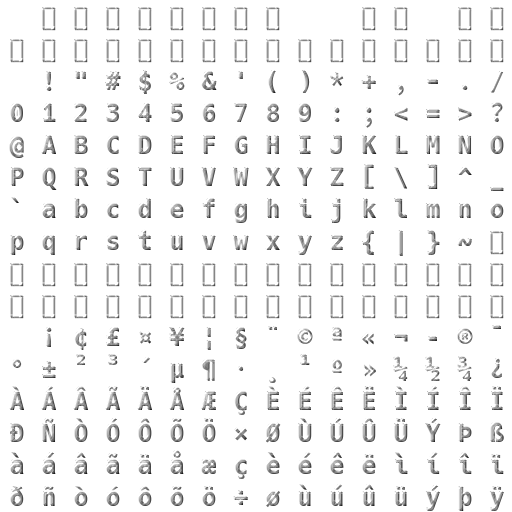
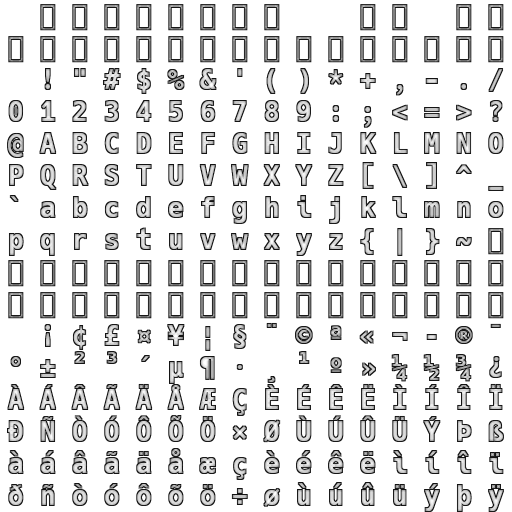
Finished Koreans. Less Stressful for the eyes. Better selection.

Changed region(s): [[0.0, 0.0, 1.0, 1.0]]

diff --git a/src/rs/alexanderstojanovich/fo2ie/main/ModuleRenderer.java b/src/rs/alexanderstojanovich/fo2ie/main/ModuleRenderer.java
@@ -90,11 +90,15 @@ public abstract class ModuleRenderer implements GLEventListener, MouseListener, 
     protected GLComponent selected;
     protected GLComponent outline;
 
+    protected Text textHint;
+
     protected boolean dragging = false;
 //    protected Vector4f savedColor = new Vector4f();
-    private Vector2f scrnMouseCoords;
+    private Vector2f scrnMouseCoords = new Vector2f();
 
     private int selectedIndex = -1;
+
+    private boolean hasFocus = false;
 
     /**
      * State of the machine
@@ -181,6 +185,8 @@ public abstract class ModuleRenderer implements GLEventListener, MouseListener, 
             setPerspective();
         }
 
+        textHint = new Text(null, fntTexture, "", GLColor.awtColorToVec4(config.getHintCol()), null);
+
         this.animator.start();
         state = State.INIT;
     }
@@ -231,11 +237,16 @@ public abstract class ModuleRenderer implements GLEventListener, MouseListener, 
                 if (selected != null) {
                     selected.render(gl20, projMat4, cntSProgram);
                 }
+                if (!textHint.isBuffered()) {
+                    textHint.buffer(gl20);
+                }
+                textHint.render(gl20, projMat4, fntSProgram);
                 break;
             case BUILD:
                 // suspend the loop until all components are built
                 animator.pause();
                 buildComponents(gl20);
+                textHint.unbuffer();
                 state = State.SUSPEND;
                 break;
             case SCREENSHOT:
@@ -358,13 +369,13 @@ public abstract class ModuleRenderer implements GLEventListener, MouseListener, 
         deselect();
 
         for (GLComponent glc : module.components) {
-            if (glc.isEnabled() && glc.getPixelArea().containsPoint(scrnMouseCoords)) {
+            if (glc.isEnabled() && glc.getPixelArea().containsPoint(scrnMouseCoords) && glc.getFeatureKey().getStringValue().equals(textHint.getContent())) {
                 selected = glc;
                 selected.setOutlineColor(GLColor.awtColorToVec4(config.getSelectCol()));
                 break;
             }
         }
-
+        textHint.setEnabled(false);
         afterSelection();
     }
 
@@ -504,6 +515,18 @@ public abstract class ModuleRenderer implements GLEventListener, MouseListener, 
         moveSelected(x, y - amount);
     }
 
+    private void showHintText() {
+        if (hasFocus && selected == null) {
+            for (GLComponent glc : module.components) {
+                if (glc.isEnabled() && glc.getPixelArea().containsPoint(scrnMouseCoords)) {
+                    textHint.setPos(scrnMouseCoords);
+                    textHint.setContent(glc.getFeatureKey().getStringValue());
+                }
+            }
+            textHint.setEnabled(true);
+        }
+    }
+
     //--------------------------------------------------------------------------
     @Override
     public void mouseClicked(MouseEvent e) {
@@ -544,12 +567,15 @@ public abstract class ModuleRenderer implements GLEventListener, MouseListener, 
 
     @Override
     public void mouseEntered(MouseEvent e) {
-        // ..IGNORE
+        hasFocus = true;
     }
 
     @Override
     public void mouseExited(MouseEvent e) {
-        //deselect();
+        hasFocus = false;
+        if (textHint != null) {
+            textHint.setEnabled(false);
+        }
     }
 
     @Override
@@ -565,6 +591,9 @@ public abstract class ModuleRenderer implements GLEventListener, MouseListener, 
 
     @Override
     public void mouseMoved(MouseEvent e) {
+        if (e.getX() != scrnMouseCoords.x && e.getY() != scrnMouseCoords.y && textHint != null) {
+            textHint.setEnabled(false);
+        }
         scrnMouseCoords = new Vector2f(e.getX(), e.getY());
     }
 
@@ -575,11 +604,16 @@ public abstract class ModuleRenderer implements GLEventListener, MouseListener, 
         }
 
         if (ke.isControlDown() && ke.getKeyCode() == KeyEvent.VK_D) {
+            textHint.setEnabled(false);
             deselect();
         }
 
         if (ke.isControlDown() && ke.getKeyCode() == KeyEvent.VK_A) {
             select();
+        }
+
+        if (ke.isControlDown() && ke.getKeyCode() != KeyEvent.VK_A && ke.getKeyCode() != KeyEvent.VK_D) {
+            showHintText();
         }
 
         if (ke.getKeyCode() == KeyEvent.VK_OPEN_BRACKET) {

diff --git a/src/rs/alexanderstojanovich/fo2ie/main/GUI.java b/src/rs/alexanderstojanovich/fo2ie/main/GUI.java
@@ -435,7 +435,7 @@ public class GUI extends javax.swing.JFrame {
         fileChooserIniSave.setDialogType(javax.swing.JFileChooser.SAVE_DIALOG);
 
         setDefaultCloseOperation(javax.swing.WindowConstants.EXIT_ON_CLOSE);
-        setTitle("FOnline2 S3 Interface Editor - JAPANESE");
+        setTitle("FOnline2 S3 Interface Editor - KOREANS");
         setMinimumSize(new java.awt.Dimension(800, 600));
         setPreferredSize(new java.awt.Dimension(800, 600));
         setSize(new java.awt.Dimension(800, 600));
@@ -626,6 +626,7 @@ public class GUI extends javax.swing.JFrame {
 
             }
         ));
+        tblFeats.setCellSelectionEnabled(true);
         tblFeats.setRowHeight(24);
         sbFeatures.setViewportView(tblFeats);
 
@@ -641,6 +642,7 @@ public class GUI extends javax.swing.JFrame {
 
             }
         ));
+        tblComps.setCellSelectionEnabled(true);
         tblComps.setRowHeight(24);
         sbComps.setViewportView(tblComps);
 
@@ -864,9 +866,15 @@ public class GUI extends javax.swing.JFrame {
         URL icon_url = getClass().getResource(RESOURCES_DIR + LICENSE_LOGO_FILE_NAME);
         if (icon_url != null) {
             StringBuilder sb = new StringBuilder();
-            sb.append("VERSION v1.2 - JAPANESE (PUBLIC BUILD reviewed on 2022-01-22 at 08:00).\n");
+            sb.append("VERSION v1.3 - KOREANS (PUBLIC BUILD reviewed on 2022-07-01 at 11:00).\n");
             sb.append("This software is free software, \n");
             sb.append("licensed under GNU General Public License (GPL).\n");
+            sb.append("\n");
+            sb.append("Changelog since v1.3 KOREANS:\n");
+            sb.append("\t- Fixed Missing components of Main Pics for PriceSetup and GroundPickup.\n");
+            sb.append("\t- Showing hint text when mouse cursor is hovered over and CTRL is pressed\n");
+            sb.append("\t- Reworked shader for component selection to be less stressful for the eyes. \n");
+            sb.append("\t- Reworked question mark with changing locations (whenn pic is missing) to be less stressful for the eyes. \n");
             sb.append("\n");
             sb.append("Changelog since v1.2 JAPANESE:\n");
             sb.append("\t- Feature \"eye\" button - to hide/reveal components. [VVish] \n");
@@ -1428,11 +1436,13 @@ public class GUI extends javax.swing.JFrame {
 
     private void cmbBoxSectionActionPerformed(java.awt.event.ActionEvent evt) {//GEN-FIRST:event_cmbBoxSectionActionPerformed
         // TODO add your handling code here:
-        mdlRenderer.deselect();
-        mdlRenderer.module.components.clear();
-        initFeaturePreview();
-        initComponentsPreview();
-        workOnBuildComponents();
+        if (intrface.getSectionName() != cmbBoxSection.getSelectedItem()) {
+            mdlRenderer.deselect();
+            mdlRenderer.module.components.clear();
+            initFeaturePreview();
+            initComponentsPreview();
+            workOnBuildComponents();
+        }
     }//GEN-LAST:event_cmbBoxSectionActionPerformed
 
     private void cmbBoxResolutionActionPerformed(java.awt.event.ActionEvent evt) {//GEN-FIRST:event_cmbBoxResolutionActionPerformed

diff --git a/src/rs/alexanderstojanovich/fo2ie/intrface/Configuration.java b/src/rs/alexanderstojanovich/fo2ie/intrface/Configuration.java
@@ -40,8 +40,9 @@ public class Configuration {
     private File outDir = new File(OUTPUT_DIR_PATH);
     private Color txtCol = Color.GREEN;
     private Color txtOverlayCol = new Color(128, 128, 128, 128); // gray half translucent
-    private Color selectCol = new Color(0, 0, 255, 128); // half blue translucent
+    private Color selectCol = new Color(0, 255, 255, 128); // half blue translucent
     private Color qmarkCol = Color.MAGENTA;
+    private Color hintCol = Color.ORANGE;
     private int textureSize = 1024;
 
     private boolean keepAspectRatio = false;
@@ -114,6 +115,9 @@ public class Configuration {
                             case "SelectedColor":
                                 selectCol = readRGBA(words[1]);
                                 break;
+                            case "HintColor":
+                                hintCol = readRGBA(words[1]);
+                                break;
                             case "TextureSize":
                                 int number = Integer.parseInt(words[1]);
                                 // if tex size is a non-zero power of two
@@ -170,6 +174,7 @@ public class Configuration {
             pw.println("TextColor = " + writeRGBA(txtCol));
             pw.println("TextOverlayColor = " + writeRGBA(txtOverlayCol));
             pw.println("SelectedColor = " + writeRGBA(selectCol));
+            pw.println("HintColor = " + writeRGBA(hintCol));
             pw.println("QMarkColor = " + writeRGBA(qmarkCol));
             pw.println("TextureSize = " + textureSize);
             pw.println("AnimationTicks = " + animationTicks);
@@ -271,6 +276,14 @@ public class Configuration {
 
     public Color getSelectCol() {
         return selectCol;
+    }
+
+    public Color getHintCol() {
+        return hintCol;
+    }
+
+    public void setHintCol(Color hintCol) {
+        this.hintCol = hintCol;
     }
 
 }

diff --git a/src/rs/alexanderstojanovich/fo2ie/main/ModuleBuildTask.java b/src/rs/alexanderstojanovich/fo2ie/main/ModuleBuildTask.java
@@ -133,7 +133,7 @@ public class ModuleBuildTask extends SwingWorker<Object, Object> {
                 }
 
                 Vector2f rootPos = new Vector2f(intrface.mainPicWidth * scaleXYFactor.getKey() / 2.0f, intrface.mainPicHeight * scaleXYFactor.getValue() / 2.0f);
-                Quad root = new Quad(mainPicPosKey, Math.round(intrface.mainPicWidth * scaleXYFactor.getKey()), Math.round(intrface.mainPicHeight * scaleXYFactor.getValue()), rootTex, rootPos);
+                Quad root = new Quad(mainPicPosKey == null ? mainPicKey : mainPicPosKey, Math.round(intrface.mainPicWidth * scaleXYFactor.getKey()), Math.round(intrface.mainPicHeight * scaleXYFactor.getValue()), rootTex, rootPos);
                 module.components.add(root);
             }
 
@@ -452,7 +452,7 @@ public class ModuleBuildTask extends SwingWorker<Object, Object> {
                 }
 
                 Vector2f rootPos = new Vector2f(intrface.mainPicWidth * scaleXYFactor.getKey() / 2.0f, intrface.mainPicHeight * scaleXYFactor.getValue() / 2.0f);
-                Quad root = new Quad(mainPicPosKey, Math.round(intrface.mainPicWidth * scaleXYFactor.getKey()), Math.round(intrface.mainPicHeight * scaleXYFactor.getValue()), rootTex, rootPos);
+                Quad root = new Quad(mainPicPosKey == null ? mainPicKey : mainPicPosKey, Math.round(intrface.mainPicWidth * scaleXYFactor.getKey()), Math.round(intrface.mainPicHeight * scaleXYFactor.getValue()), rootTex, rootPos);
                 module.components.add(root);
             }
 

diff --git a/src/rs/alexanderstojanovich/fo2ie/ogl/AddressableQuad.java b/src/rs/alexanderstojanovich/fo2ie/ogl/AddressableQuad.java
@@ -116,8 +116,9 @@ public class AddressableQuad implements GLComponent {
         final int countX = (stepX == 0) ? 0 : Math.round(Math.abs(posMax.x - pos.x) / stepX);
         final int countY = (stepY == 0) ? 0 : Math.round(Math.abs(posMax.y - pos.y) / stepY);
 
-        int i = (countX == 0) ? 0 : (int) Math.floorMod(Math.round(gameTime.getGameTicks()), countX);
-        int j = (countY == 0) ? 0 : (int) Math.floorMod(Math.round(gameTime.getGameTicks()), countY);
+        double q = (GameTime.TPS - gameTime.getGameTicks()) / (double) GameTime.TPS;
+        int i = (countX == 0) ? 0 : (int) Math.floorMod(Math.round((1.0 - q) * countX), countX);
+        int j = (countY == 0) ? 0 : (int) Math.floorMod(Math.round((1.0 - q) * countY), countY);
 
         res.x = pos.x + i * stepX;
         res.y = pos.y + j * stepY;

diff --git a/src/rs/alexanderstojanovich/fo2ie/main/GUISplashScreen.java b/src/rs/alexanderstojanovich/fo2ie/main/GUISplashScreen.java
@@ -38,7 +38,7 @@ public class GUISplashScreen extends JWindow implements Runnable {
     // progress bar (the progress is dependant on the GUI initialization progress)
     private final JProgressBar progressBar = new JProgressBar(0, 100);
 
-    public static final Color COLOR = new Color(175, 175, 25);
+    public static final Color COLOR = new Color(255, 199, 0);
 
     //--------------------------------------------------------------------------
     // A - CONSTRUCTORS 

diff --git a/src/rs/alexanderstojanovich/fo2ie/ogl/Animation.java b/src/rs/alexanderstojanovich/fo2ie/ogl/Animation.java
@@ -184,7 +184,7 @@ public class Animation implements GLComponent {
     }
 
     private int getFrame() {
-        double q = (GameTime.TPS - gameTime.getGameTicks()) / GameTime.TPS;
+        double q = (GameTime.TPS - gameTime.getGameTicks()) / (double) GameTime.TPS;
         frameIndex = (int) Math.floorMod(Math.round((1.0 - q) * texture.length), texture.length);
         return frameIndex;
     }
